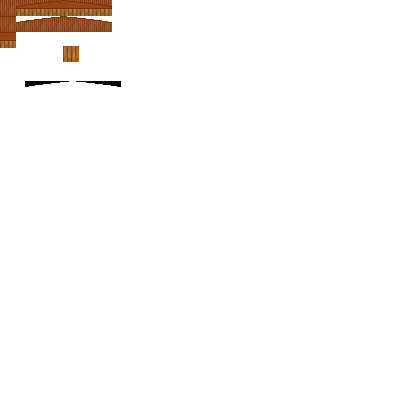
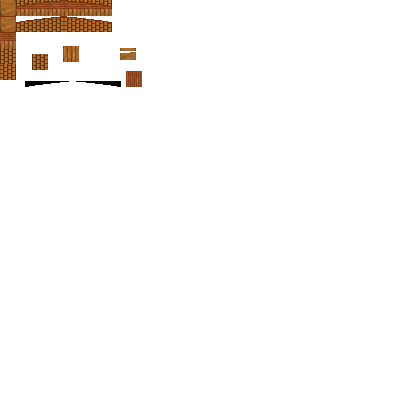
tak texturefix

diff --git a/Desolation/Desolation/Chunk/Room.cs b/Desolation/Desolation/Chunk/Room.cs
@@ -22,88 +22,102 @@ namespace Desolation
 
         public void draw(SpriteBatch spriteBatch)
         {
-            if (!(Globals.currentStructureID == structureID))
-            {
-                for (int i = 0; i <= area.Width; i += 16)
-                {
-                    for (int j = 0; j <= area.Height; j += 16)
-                    {
-                        if (i != 0 && j != area.Height && i != area.Width)
-                        {
-                            
-                        
-                        spriteBatch.Draw(TextureManager.roofsheet, new Vector2(area.X+j, area.Y+i-16 ), new Rectangle(0, 16, 16, 16), Color.White, 0f, Vector2.Zero, 1f, SpriteEffects.None, 1.0f);
-
-                        }
-
-                        if (area.Width == j && i==0)
-                        {
-                            spriteBatch.Draw(TextureManager.roofsheet, new Vector2(area.X, area.Y-16), new Rectangle(0, j, j, 16), Color.White, 0f, Vector2.Zero, 1f, SpriteEffects.None, 1.0f);
-                            spriteBatch.Draw(TextureManager.roofsheet, new Vector2(area.X, area.Y + (j-32)), new Rectangle(128, j, j, 16), Color.White, 0f, Vector2.Zero, 1f, SpriteEffects.None, 1.0f);
-                            // spriteBatch.Draw(TextureManager.roofsheet, new Vector2(area.X + i, area.Y + i - 16), new Rectangle(16, 16, Globals.blockSize * 3, Globals.blockSize), Color.White, 0f, Vector2.Zero, 1f, SpriteEffects.None, 1.0f);
-                        }
-                        
-                    }
-                }
-            }
-
-
-
             //if (!(Globals.currentStructureID == structureID))
             //{
-            //    for (int i = 0; i < area.Height; i+=16)
+            //    for (int i = 0; i <= area.Width; i += 16)
             //    {
-            //        for (int j = 0; j < area.Width; j+= 16)
+            //        for (int j = 0; j <= area.Height; j += 16)
             //        {
-            //            if (area.X + j > Globals.playerPos.X - (Globals.screenX / 2) - 16 && area.X + j < Globals.playerPos.X + (Globals.screenX / 2) + 16 && area.Y + i > Globals.playerPos.Y - (Globals.screenY / 2) - 16 && area.Y + i < Globals.playerPos.Y + (Globals.screenY / 2) + 16)
+            //            if (i != 0 && j != area.Height && i != area.Width)
             //            {
-            //                if (i == 0)
-            //                {
+                            
+                        
+            //            spriteBatch.Draw(TextureManager.roofsheet, new Vector2(area.X+j, area.Y+i-16 ), new Rectangle(0, 16, 16, 16), Color.White, 0f, Vector2.Zero, 1f, SpriteEffects.None, 1.0f);
 
-            //                    if (j == 0)
-            //                    {
-            //                        spriteBatch.Draw(TextureManager.roofsheet, new Vector2(area.X + j, area.Y + i - 16), new Rectangle(16, 16, Globals.blockSize * 3, Globals.blockSize), Color.White, 0f, Vector2.Zero, 1f, SpriteEffects.None, 1.0f);
-
-            //                    }
-            //                    else if (j == area.Width - 16)
-            //                    {
-            //                        spriteBatch.Draw(TextureManager.roofsheet, new Vector2(area.X + j - 16 * 2, area.Y + i - 16), new Rectangle(64, 16, Globals.blockSize * 3, Globals.blockSize), Color.White, 0f, Vector2.Zero, 1f, SpriteEffects.None, 1.0f);
-
-            //                    }
-            //                    else if (j > 16 * 2 && j < area.Width - 16 * 3)
-            //                    {
-            //                        spriteBatch.Draw(TextureManager.roofsheet, new Vector2(area.X + j, area.Y + i - 16), new Rectangle(0, 16, Globals.blockSize, Globals.blockSize), Color.White, 0f, Vector2.Zero, 1f, SpriteEffects.None, 1.0f);
-
-            //                    }
-            //                }
-            //                else if (i == area.Height - 16)
-            //                {
-            //                    if (j == 0)
-            //                    {
-            //                        spriteBatch.Draw(TextureManager.roofsheet, new Vector2(area.X + j, area.Y + i - 16), new Rectangle(16, 0, Globals.blockSize * 3, Globals.blockSize), Color.White, 0f, Vector2.Zero, 1f, SpriteEffects.None, 1.0f);
-
-            //                    }
-            //                    else if (j == area.Width - 16)
-            //                    {
-            //                        spriteBatch.Draw(TextureManager.roofsheet, new Vector2(area.X + j - 16 * 2, area.Y + i - 16), new Rectangle(64, 0, Globals.blockSize * 3, Globals.blockSize), Color.White, 0f, Vector2.Zero, 1f, SpriteEffects.None, 1.0f);
-
-            //                    }
-            //                    else if (j > 16 * 2 && j < area.Width - 16 * 3)
-            //                    {
-            //                        spriteBatch.Draw(TextureManager.roofsheet, new Vector2(area.X + j, area.Y + i - 16), new Rectangle(0, 32, Globals.blockSize, Globals.blockSize), Color.White, 0f, Vector2.Zero, 1f, SpriteEffects.None, 1.0f);
-
-            //                    }
-            //                }
-            //                else
-            //                {
-            //                    spriteBatch.Draw(TextureManager.roofsheet, new Vector2(area.X + j, area.Y + i - 16), new Rectangle(0, 0, Globals.blockSize, Globals.blockSize), Color.White, 0f, Vector2.Zero, 1f, SpriteEffects.None, 1.0f);
-            //                }
             //            }
+
+            //            if (area.Width == j && i==0)
+            //            {
+            //                spriteBatch.Draw(TextureManager.roofsheet, new Vector2(area.X, area.Y-16), new Rectangle(0, j, j, 16), Color.White, 0f, Vector2.Zero, 1f, SpriteEffects.None, 1.0f);
+            //                spriteBatch.Draw(TextureManager.roofsheet, new Vector2(area.X, area.Y + (j-32)), new Rectangle(128, j, j, 16), Color.White, 0f, Vector2.Zero, 1f, SpriteEffects.None, 1.0f);
+            //                // spriteBatch.Draw(TextureManager.roofsheet, new Vector2(area.X + i, area.Y + i - 16), new Rectangle(16, 16, Globals.blockSize * 3, Globals.blockSize), Color.White, 0f, Vector2.Zero, 1f, SpriteEffects.None, 1.0f);
+            //            }
+                        
             //        }
             //    }
-
-            //    //spriteBatch.Draw(TextureManager.playerSheet, new Vector2(area.X, area.Y), area , Color.White, 0f, new Vector2(), 1f, SpriteEffects.None, 1.0f);
             //}
+
+
+
+            if (!(Globals.currentStructureID == structureID))
+            {
+                for (int i = 0; i < area.Height; i += 16)
+                {
+                    for (int j = 0; j < area.Width; j += 16)
+                    {
+                        if (area.X + j > Globals.playerPos.X - (Globals.screenX / 2) - 16 && area.X + j < Globals.playerPos.X + (Globals.screenX / 2) + 16 && area.Y + i > Globals.playerPos.Y - (Globals.screenY / 2) - 16 && area.Y + i < Globals.playerPos.Y + (Globals.screenY / 2) + 16)
+                        {
+                            if (i == 0)
+                            {
+
+                                if (j == 0)
+                                {
+                                    spriteBatch.Draw(TextureManager.roofsheet, new Vector2(area.X + j, area.Y + i - 16), new Rectangle(16, 16, Globals.blockSize * 3, Globals.blockSize), Color.White, 0f, Vector2.Zero, 1f, SpriteEffects.None, 1.0f);
+
+                                }
+                                else if (j == area.Width - 16)
+                                {
+                                    spriteBatch.Draw(TextureManager.roofsheet, new Vector2(area.X + j - 16 * 2, area.Y + i - 16), new Rectangle(64, 16, Globals.blockSize * 3, Globals.blockSize), Color.White, 0f, Vector2.Zero, 1f, SpriteEffects.None, 1.0f);
+
+                                }
+                                else if (j > 16 * 2 && j < area.Width - 16 * 3)
+                                {
+                                    spriteBatch.Draw(TextureManager.roofsheet, new Vector2(area.X + j, area.Y + i - 16), new Rectangle(0, 16, Globals.blockSize, Globals.blockSize), Color.White, 0f, Vector2.Zero, 1f, SpriteEffects.None, 1.0f);
+
+                                }
+                            }
+                            else if (i == area.Height - 16)
+                            {
+                                if (j == 0)
+                                {
+                                    spriteBatch.Draw(TextureManager.roofsheet, new Vector2(area.X + j, area.Y + i - 16), new Rectangle(16, 0, Globals.blockSize * 3, Globals.blockSize), Color.White, 0f, Vector2.Zero, 1f, SpriteEffects.None, 1.0f);
+
+                                }
+                                else if (j == area.Width - 16)
+                                {
+                                    spriteBatch.Draw(TextureManager.roofsheet, new Vector2(area.X + j - 16 * 2, area.Y + i - 16), new Rectangle(64, 0, Globals.blockSize * 3, Globals.blockSize), Color.White, 0f, Vector2.Zero, 1f, SpriteEffects.None, 1.0f);
+
+                                }
+                                else if (j > 16 * 2 && j < area.Width - 16 * 3)
+                                {
+                                    spriteBatch.Draw(TextureManager.roofsheet, new Vector2(area.X + j, area.Y + i - 16), new Rectangle(0, 32, Globals.blockSize, Globals.blockSize), Color.White, 0f, Vector2.Zero, 1f, SpriteEffects.None, 1.0f);
+
+                                }
+                            }
+                            else
+                            {
+                                if (j < 16 * 3)
+                                {
+                                    spriteBatch.Draw(TextureManager.roofsheet, new Vector2(area.X + j, area.Y + i - 16), new Rectangle(0, 48, Globals.blockSize, Globals.blockSize), Color.White, 0f, Vector2.Zero, 1f, SpriteEffects.None, 1.0f);
+                            
+                                }
+                                else if (j > area.Width - 16 * 4)
+                                {
+                                    spriteBatch.Draw(TextureManager.roofsheet, new Vector2(area.X + j, area.Y + i - 16), new Rectangle(0, 64, Globals.blockSize, Globals.blockSize), Color.White, 0f, Vector2.Zero, 1f, SpriteEffects.None, 1.0f);
+                            
+                                }
+                                else
+                                {
+                                    spriteBatch.Draw(TextureManager.roofsheet, new Vector2(area.X + j, area.Y + i - 16), new Rectangle(0, 0, Globals.blockSize, Globals.blockSize), Color.White, 0f, Vector2.Zero, 1f, SpriteEffects.None, 1.0f);
+                            
+                                }
+                            }
+                        }
+                    }
+                }
+
+                //spriteBatch.Draw(TextureManager.playerSheet, new Vector2(area.X, area.Y), area , Color.White, 0f, new Vector2(), 1f, SpriteEffects.None, 1.0f);
+            }
         }
 
         public void generateRoom()

diff --git a/Desolation/Desolation/TextureManager.cs b/Desolation/Desolation/TextureManager.cs
@@ -41,7 +41,7 @@ namespace Desolation
             deerSheet = contentManager.Load<Texture2D>("DeerspriteShite");
             blocksheet = contentManager.Load<Texture2D>("tempblocksheet");
             objectsheet = contentManager.Load<Texture2D>("tempobjectsheet");
-            roofsheet = contentManager.Load<Texture2D>("taksheet");
+            roofsheet = contentManager.Load<Texture2D>("temproofsheet");
             leaf = contentManager.Load<Texture2D>("leaf");
             leaf2 = contentManager.Load<Texture2D>("leaf2");
             leaf3 = contentManager.Load<Texture2D>("leaf3");
